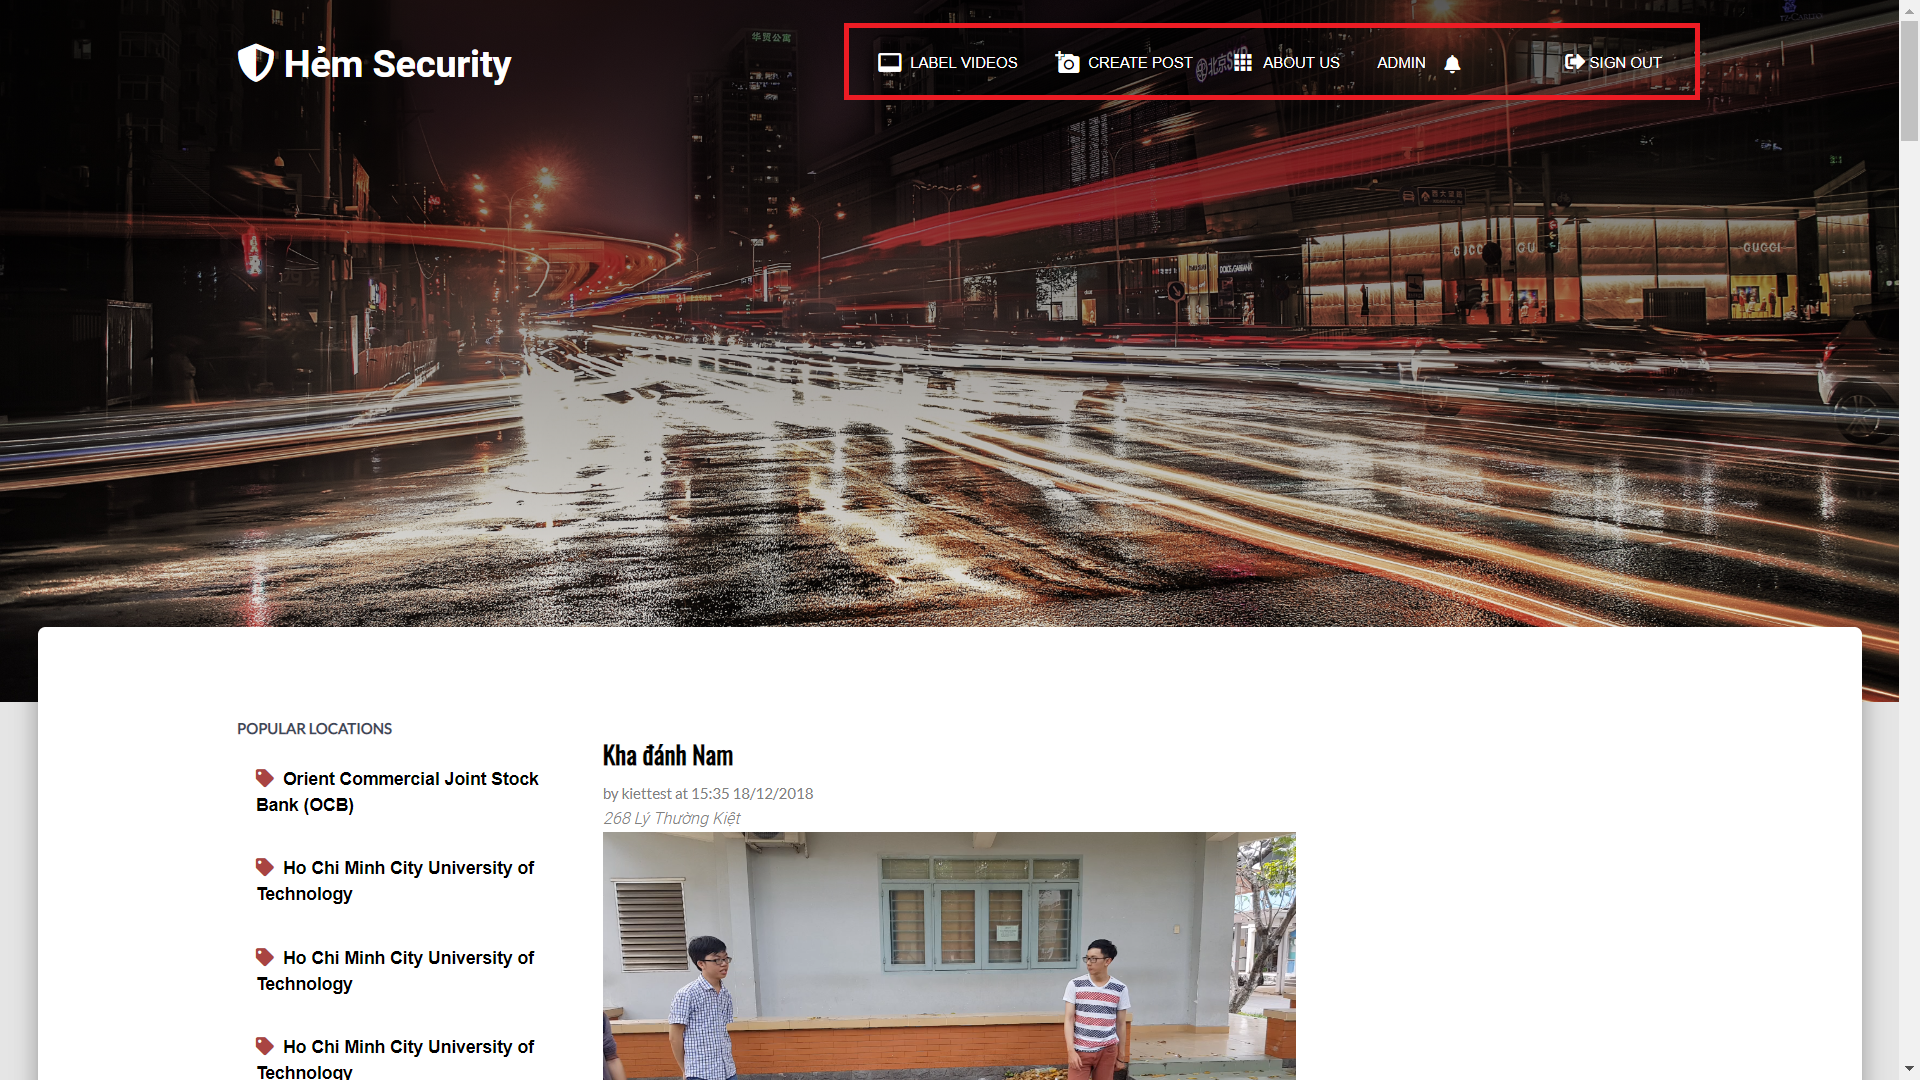
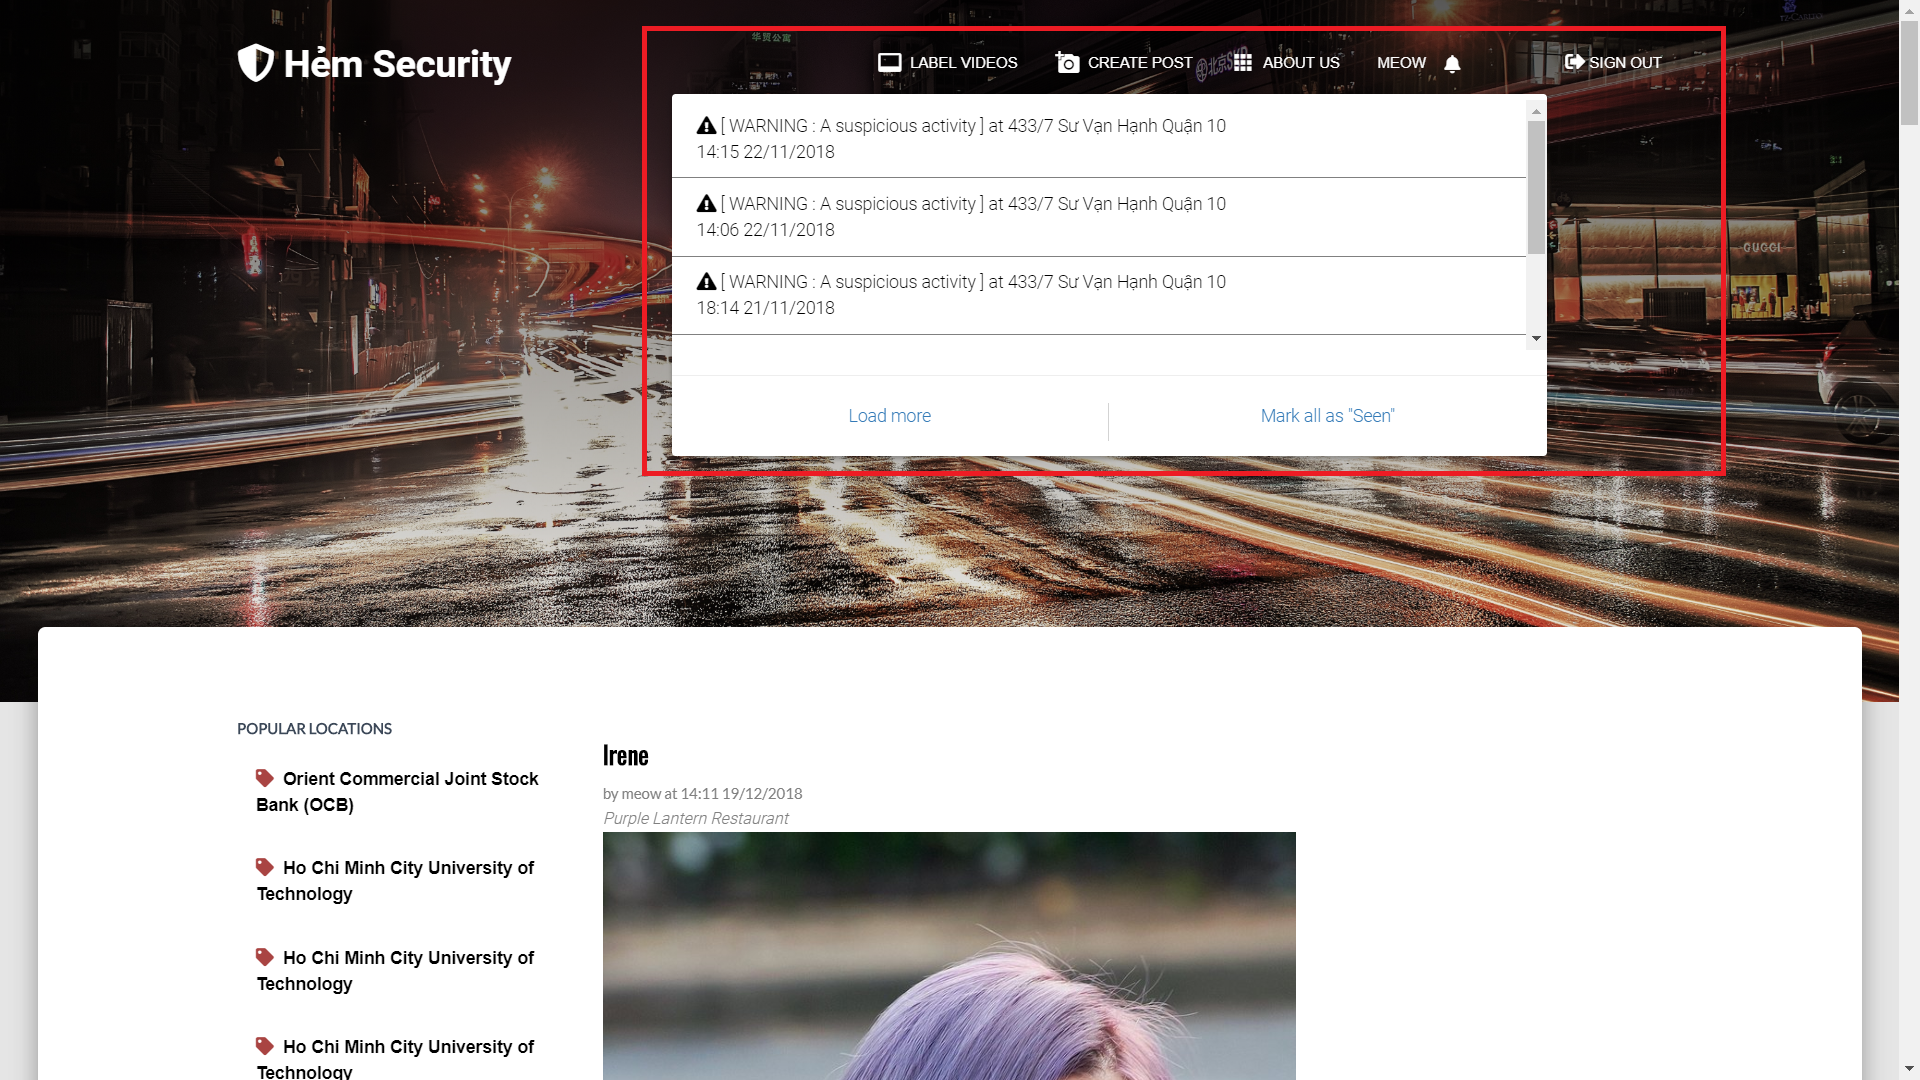
chap 4 front end

diff --git a/Chapter4.tex b/Chapter4.tex
@@ -65,8 +65,6 @@ In the scope of a thesis, the system has to acquire these requirements to perfor
 
 Specifically, users create post with image/video to provide data to back-end. Post also contains other information such as author, location, time. Back-end save all information from post and then deliver data to relevant module to analyze. When suspicious activity detected after analyzing, back-end notify users who subscribe to the exact location and users who subscribe to locations that are in a diameter of 1 kilometer from that location.
 
-\textbf{Label video}
-
 \section{Database}
 The project database divides into two different parts: \textbf{Cloud storage} for visual data such as image/video and a \textbf{NoSQL database} for other information. The primary target is to reduce website loading time. Let take an example, if files are stored directly on the back-end server. When many users request a file simultaneously, the server with limited bandwidth will cause delay. “53\% of mobile site visitors leave a page that takes longer than three seconds to load” – \href{https://think.storage.googleapis.com/docs/mobile-page-speed-new-industry-benchmarks.pdf}{Google}. If these files stored on cloud storage, the client will be served by the cloud storage provider, which has higher availability.
 \subsection{Cloud storage}
@@ -194,6 +192,7 @@ There are a total of 8 collections in the database: User, Visual data, Location,
 		Visual Data.location                                & Location.\_id         \\ \hline
 		User.role                                           & Role.type             \\ \hline
 	\end{tabular}
+	\caption{Relationships of collections.}
 \end{table}
 \cleardoublepage
 Example:
@@ -206,22 +205,29 @@ Example:
 \end{table}
 The element of the field \textit{subscribers}(array) of collection \textbf{Location} references field \textit{\_id} of collection \textbf{User}.
 \section{Social media website}
-Model-View-Controller (MVC) pattern consists of three parts: Model, View, and Controller. This section will clarify each component.
+To implement the website, Model-View-Controller (MVC) pattern is used for its advantages:
+\begin{itemize}
+\item Faster development process.
+\item Ability to provide multiple views.
+\item Support for asynchronous technique.
+\item Modification does not affect the entire model.
+\item MVC model returns the data without formatting.
+\item SEO friendly Development platform.
+\end{itemize}
+In the MVC development, controller receives all requests for the application and then control the model to prepare any necessary information for the view. The view uses that data prepared by the controller to bring the final output.
 \subsection{Front-end}
 \subsubsection{Overview}
-Figure \ref{chap4:sitemap} presents the overview the website.
 \begin{center}
     \begin{figure}[H]
     \centering
-    \includegraphics[width=1.5\columnwidth,height=7cm,angle=270]{images/chap4/sitemap.png}
+    \includegraphics[width=0.16\columnwidth]{images/chap4/sitemap.png}
     \caption{Sitemap}
-    \label{chap4:sitemap}
     \end{figure}
 \end{center}
 \subsubsection{Views}
 \textbf{Header}
 \\
-Header is a navigation bar which is displayed in every views. Navigation bar only contains "About us", "Sign in", "Sign up" buttons by default. Logging in add additional buttons such as "Create post", "Label videos",  "Profile", "Log out" to the bar.
+Header is a navigation bar which is displayed in every views. Navigation bar only contains "About us", "Sign in", "Sign up" buttons by default.
 \begin{center}
     \begin{figure}[H]
     \centering
@@ -230,6 +236,7 @@ Header is a navigation bar which is displayed in every views. Navigation bar onl
     \end{figure}
 \end{center}
 
+Logging in add additional buttons such as "Create post", "Label videos",  "Profile", "Log out" and a notification dropdown represented by a bell icon to the bar. In case of having unseen notifications, the bell icon will have an orange-red color.
 \begin{center}
     \begin{figure}[H]
     \centering
@@ -237,42 +244,46 @@ Header is a navigation bar which is displayed in every views. Navigation bar onl
     \caption{Navigation bar when logged in.}
     \end{figure}
 \end{center}
-
 \textbf{Homepage}
+\\
+News feed which are posts from everyone is visible in the middle of the homepage. A post is displayed with title, author, time, location and visual data. Additionally, there is a sidebar with popular locations. Clicking a location from the sidebar leads to another view that show only posts from that location. Blank space is reserved for advertising to earn income in the future.
 \begin{center}
     \begin{figure}[H]
     \centering
     \includegraphics[width=1\columnwidth]{images/chap4/homepage.png}
     \end{figure}
 \end{center}
-
-News feed which are posts from everyone is visible in the homepage. A post is displayed with title, author, time, location and visual data. Additionally, there is a sidebar with popular locations. Clicking a location from the sidebar leads to another view that show only posts from that location. Blank space is reserved for advertising to create income in the future.
-
 \textbf{Sign in}
+\\
+Sign in form also has buttons for users to login with Google and Facebook account.
 \begin{center}
     \begin{figure}[H]
     \centering
     \includegraphics[width=1\columnwidth]{images/chap4/login_form.png}
     \end{figure}
 \end{center}
-
 \textbf{Sign up}
+\\
+Sign up form has general rules when using the website. Rule violation will result in banning violator's account.
 \begin{center}
     \begin{figure}[H]
     \centering
     \includegraphics[width=1\columnwidth]{images/chap4/signup_form.png}
     \end{figure}
 \end{center}
-
 \textbf{Label video}
+\\
+Label video view contains a list of videos and two buttons "Suspicious" and "Not suspicious" for users to label. A user can only label a video once. Labeled videos are use to \textbf{xem lại}
 \begin{center}
     \begin{figure}[H]
     \centering
     \includegraphics[width=1\columnwidth]{images/chap4/label_video.png}
     \end{figure}
 \end{center}
-
 \textbf{Create post}
+\\
+Create post form includes title, a file selector to select image/video, an embedded Google map to select location. After creating post, location of created post is available for other users to subscribe.
+
 \begin{center}
     \begin{figure}[H]
     \centering
@@ -281,6 +292,14 @@ News feed which are posts from everyone is visible in the homepage. A post is di
 \end{center}
 
 \textbf{Profile}
+\\
+Profile view contains user's basic info and mobile phone field for verification. Besides, it also has 4 tabs:  
+\begin{itemize}
+\item My posts
+\item Notifications
+\item Subscribed locations: To unsubscribe a location.
+\item All locations: To subscribe to a new location.
+\end{itemize}
 \begin{center}
     \begin{figure}[H]
     \centering
@@ -289,6 +308,16 @@ News feed which are posts from everyone is visible in the homepage. A post is di
 \end{center}
 
 \textbf{Administration}
+\\
+Administration consists of 5 tabs:
+\begin{itemize}
+\item Locations
+\item Visual data
+\item Record: To look up an identified person's location history.
+\item All users: To ban or unban a user.
+\item Reported posts: To review reports and decide whether to delete post.
+\end{itemize}
+There is also an "Add person" button to add new person with name for system to identify in the future. An unidentified person is shown as "unknown".
 \begin{center}
     \begin{figure}[H]
     \centering
@@ -296,7 +325,7 @@ News feed which are posts from everyone is visible in the homepage. A post is di
     \end{figure}
 \end{center}
 \subsection{Back-end}
-In MVC, the Controller receives user input, manipulates Model, and then responds to the user (cite). Following is the list of implemented controllers in this thesis.
+In MVC pattern, the Controller receives user input, manipulates Model, and then responds to the user (cite). Following is the list of implemented controllers in this thesis.
 \begin{itemize}
 	\item Authentication Controller: manages the flow of user sign in and sign up. A user can choose either traditional or social login. With the classical way, the user has to provide his/her email and password. If the user prefers social login, this website currently supports sign in via Facebook and Google+.
 	\item Dataset Collector: downloads dataset (a collection of labeled videos) as the input for the training process.

diff --git a/Chapter2.tex b/Chapter2.tex
@@ -16,11 +16,6 @@ Therefore, crowdsourcing can be considered as a process evolving through the fol
   
   On the other hand, participants in a crowdsourcing process gain several benefits. They acquire new skills. They perceive the “seeking to the best solution” process as a challenge to achieve, and they also gain new knowledge. In some cases, they can also “incorporate that experience in the seeking of better employment or in the goal of establishing oneself in freelance work as an entrepreneur” \cite{doi101177}. Crowdsourcing is a model appropriate for the utilization of collective talents by aggregating collective intelligence and knowledge and also by increasing the ingenuity of the crowd. This may result in innovative solutions by reducing the cost and time a traditional problem solving process usually requires \cite{doi101177}
 
-\section{MVC model}
-%% chưa parapharse https://developer.mozilla.org/en-US/docs/Web/Apps/Fundamentals/Modern_web_app_architecture/MVC_architecture %%
-\subsection{Definition}
-Model View Controller (MVC) is a software architecture pattern, commonly used to implement user interfaces: it is therefore a popular choice for architecting web apps. In general, it separates out the application logic into three separate parts, promoting modularity and ease of collaboration and reuse. It also makes applications more flexible and welcoming to iterations.
-
 \section{Neural network}
 
 \subsection{Artificial Neural Network (ANN)}
@@ -69,7 +64,7 @@ Convolution layer is the core building block of a Convolution Network that does 
 
 Overview:\\ 
 The convolution layer's parameter consists of a set of learnable filters. Every filter is small spatially [ Width x Height], but extends through the full depth of the input volume (in standard image, the depth is equal 3). For example, a typical filter on the first layer of a CNN might have a size [5x5x3] ( 5 pixels width and height, and depth = 3 ). In the calculating process, we slide each filter across the width and height of the input and compute dot-product between input and filter in every position. The result of dot-product is a 2-dimensional matrix called activation map of a filter. With layer has 12 filters, each of them produces one activation map, then we stack these maps along the depth dimension and produce the output volume.
- 
+ 
 Local Connectivity:\\
 When processing input which high-dimensional such as images, connect neurons to all previous neurons like Fully-connected layer is impractical, a number of parameters of the network must learn is massive (exploding hyperparameters). Alternately, each neuron is connected to only a local region of the input volume,the limit region of this connectivity is a hyperparameter called receptive field of the neuron (equivalently this is the size of the filter). The connections are local in space (along with width and height), but always full along the entire of the depth of the input volume.
 \begin{center}
@@ -248,6 +243,6 @@ With the value of internal memory ($c_{t}$), we calculate the hidden state vecto
 
 
 
-\section{Face recognition}
-\section{Action recognition}
-\section{Cloud computing}
+%\section{Face recognition}
+%\section{Action recognition}
+%\section{Cloud computing}

diff --git a/Chapter1.tex b/Chapter1.tex
@@ -20,14 +20,6 @@ Almost everyday one hears about damage or loss occurring due to security lapses 
 
 \section{Thesis statement}
 \subsection{Goal}
-Kha writes
-The goal of this thesis is to accomplish to the following tasks:
-\begin{itemize}
-	\item Create an interface to interact with users. In the scope of this thesis, users of the system are inhabitants of a neighbor
-	\item Create data collection points with proposing crowd-sourcing methods. Collected data can be in form of images and videos form contributors such as residents of neighbors, security camera.
-	\item Analyze collected data using methods which will be proposed in the following chapters, and come up with meaningful information such as warnings or notifications to users of the system.
-\end{itemize} 
-Tri writes
 The goal of this thesis is to build a system to collect and analyze image/video data using crowd-sourcing model and deep learning techniques for social security. The system require these features:
 \begin{itemize}
 	\item Using crowd-sourcing technique to collect image/video from users.
@@ -67,7 +59,7 @@ Currently, building a system to enhance security for a whole city is impractical
 \begin{itemize}
 	\item Chapter 1: Introduce the main goal of the thesis, planned stages to conduct the project, overview of the report.
 	\item Chapter 2: Background knowledge about ...
-	\item Chapter 3: Propose a system consists of 2 subsystems: a social network website and an analysis system which contains a face recognition module and a video classifier module. 
+	\item Chapter 3: Propose a solution for crowd-sourcing model: a social media website; Extracting information from image: face recognition; Extracting information from video: video classification.
 	\item Chapter 4: The implementation of the social media website, face recognition module, video classifier module and connection between them.
 	\item Chapter 5: 
 	\item Chapter 6: Result, limitation and how to resolve these challenges, further development in the future.

diff --git a/Chapter3.tex b/Chapter3.tex
@@ -35,11 +35,11 @@ For image data, this thesis proposes using a face recognition system to identify
 \footnotetext{Source: \url:{https://www.kairos.com/blog/face-recognition-kairos-vs-microsoft-vs-google-vs-amazon-vs-opencv}}
 \begin{itemize}
 	\item  Kairos: offers a wide variety of image recognition solutions through their API. Their API endpoints include identifying gender, age, emotional depth, facial recognition in both photo and video, and more.
-	\item Amazon Rekognition: This facial recognition API is fully integrated into the Amazon Web Service ecosystem. Using this API will make it easy to build applications that make use of other AWS products.
+	\item Amazon Recognition: This facial recognition API is fully integrated into the Amazon Web Service ecosystem. Using this API will make it easy to build applications that make use of other AWS products.
 	\item Google Cloud Vision: By being integrated into the Google Cloud Platform, this API will be a breeze to integrate into applications that are already using other Google Cloud Platform products and services.
 \end{itemize}
 
-However, with the limitations of the thesis and the applicability to fulfill demands of this research, Microsoft Face API is choosen. There are many advantage of Microsoft Face API such as large amount of user identification, high accuracy and lower cost of usage than the whole API remaining at the time of the investigation
+However, with the limitations of the thesis and the applicability to fulfill demands of this research, Microsoft Face API is chosen. There are many advantage of Microsoft Face API such as large amount of user identification, high accuracy and lower cost of usage than the whole API remaining at the time of the investigation
 
 
 \section{Extracting information from videos}

diff --git a/Thesis.tex b/Thesis.tex
@@ -47,7 +47,7 @@ Vũ Minh Trí, Võ Tuấn Kiệt, Phạm Hồng Thái, Đinh Duy Kha, Nguyễn K
 
 \cleardoublepage
 
-\chapter*{SUMMARY}
+%\chapter*{SUMMARY}
 
 
 \cleardoublepage
